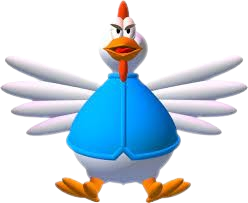
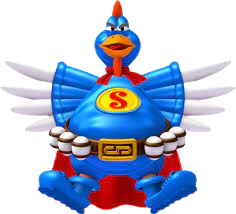
interface added

diff --git a/ChickenInvaders/src/main/java/Main.java b/ChickenInvaders/src/main/java/Main.java
@@ -16,16 +16,18 @@ public class Main extends PApplet {
     private SoundFile notificationSound;
     private boolean mouseWasOverstartButton = false;
     private boolean mouseWasOverExitButton = false;
+    private boolean gameOver = false;
     private int currentWave = 1;
     private int killedChickens = 0;
     private final int totalWaves = 3;
+    public static String[] chickenImages = {"chicken1.png", "chicken2.png", "chicken3.png"};
 
     public void setup() {
         pApplet = this;
         chicken = new Chicken(0, 0);
         Spaceship.spaceshipImage = loadImage("spaceship1.png");
         spaceship = new Spaceship();
-        Chicken.chickenImage = loadImage("chicken1.png");
+        updateChickenImage();
         chicken.createChickens();
 
         // Load custom font, background image, and sound
@@ -37,16 +39,19 @@ public class Main extends PApplet {
     public void draw() {
         if (startMenu) {
             drawStartMenu();
-        } else {
+        } else if (!gameOver) {
             background(128, 52, 235);
             drawWaveInfo();
-            chicken.display();
+            chicken.display(screenWidth);
             spaceship.drawSpaceship();
             for (Missile missile : missiles) {
                 missile.update();
                 missile.drawMissile();
             }
             checkCollisions();
+            checkGameOver();
+        } else {
+            drawGameOverMessage();
         }
     }
 
@@ -62,6 +67,20 @@ public class Main extends PApplet {
         float bottomMissile = missile.getY() + missile.getMissileHeight();
 
         return leftMissile < rightChicken && rightMissile > leftChicken && topMissile < bottomChicken && bottomMissile > topChicken;
+    }
+
+    private boolean collidesWithSpaceship(Chicken chicken, Spaceship spaceship) {
+        float leftChicken = chicken.getX();
+        float rightChicken = chicken.getX() + chicken.getWidth();
+        float topChicken = chicken.getY();
+        float bottomChicken = chicken.getY() + chicken.getHeight();
+
+        float leftSpaceship = spaceship.getxPos();
+        float rightSpaceship = spaceship.getxPos() + spaceship.getSpaceshipWidth();
+        float topSpaceship = spaceship.getyPos();
+        float bottomSpaceship = spaceship.getyPos() + spaceship.getSpaceshipHeight();
+
+        return leftSpaceship < rightChicken && rightSpaceship > leftChicken && topSpaceship < bottomChicken && bottomSpaceship > topChicken;
     }
 
     private void checkCollisions() {
@@ -89,8 +108,32 @@ public class Main extends PApplet {
         // Check if all chickens are killed and start the next wave if there are more waves
         if (killedChickens == chickensPerWave && currentWave < totalWaves) {
             currentWave++;
+            updateChickenImage(); // Update the chicken image
             chicken.createChickens();
             killedChickens = 0;
+        }
+    }
+
+    private void checkGameOver() {
+        for (Chicken currentChicken : Chicken.chickens) {
+            // Check if the chicken touched the spaceship
+            if (collidesWithSpaceship(currentChicken, spaceship)) {
+                gameOver = true;
+                break;
+            }
+
+            // Check if the chicken touched the bottom of the screen
+            if (currentChicken.getY() + currentChicken.getHeight() >= screenHeight) {
+                gameOver = true;
+                break;
+            }
+        }
+    }
+
+    public void updateChickenImage() {
+        int index = currentWave - 1;
+        if (index < chickenImages.length) {
+            Chicken.chickenImage = loadImage(chickenImages[index]);
         }
     }
 
@@ -149,6 +192,14 @@ public class Main extends PApplet {
         text("Exit Game", screenWidth / 2, screenHeight / 2 + 86);
     }
 
+    private void drawGameOverMessage() {
+        background(128, 52, 235);
+        textFont(pressStartFont, 24);
+        fill(255, 0, 0); // Change the message color to red
+        textAlign(CENTER);
+        text("Game Over!", screenWidth / 2, screenHeight / 2);
+    }
+
     public void mouseClicked() {
         if (startMenu) {
             // Check if the mouse was clicked inside the start button
@@ -165,8 +216,8 @@ public class Main extends PApplet {
 
     public void mousePressed() {
         if (!startMenu) {
-            float missileX = spaceship.getXPos();
-            float missileY = spaceship.getYPos() - spaceship.getSpaceshipHeight() / 2;
+            float missileX = spaceship.getxPos();
+            float missileY = spaceship.getyPos() - spaceship.getSpaceshipHeight() / 2;
             missiles.add(new Missile(missileX, missileY));
         }
     }

diff --git a/ChickenInvaders/src/main/java/Spaceship.java b/ChickenInvaders/src/main/java/Spaceship.java
@@ -1,11 +1,10 @@
 import java.util.*;
 import processing.core.PImage;
 
-public class Spaceship {
+public class Spaceship implements SpaceshipInterface{
     public static PImage spaceshipImage;
     private final int width = 400;
     private final int height = 700;
-    private int spaceshipColor;
     private float spaceshipWidth;
     private float spaceshipHeight;
     private float xPos;
@@ -13,7 +12,6 @@ public class Spaceship {
 
     public Spaceship() {
         // Creating spaceship
-        spaceshipColor = Main.pApplet.color(255, 0, 0);
         spaceshipWidth = 100;
         spaceshipHeight = 80;
         xPos = width / 2;
@@ -29,19 +27,51 @@ public class Spaceship {
         Main.pApplet.image(spaceshipImage, xPos, yPos, spaceshipWidth, spaceshipHeight);
     }
 
-    public float getXPos() {
-        return xPos;
+    public static PImage getSpaceshipImage() {
+        return spaceshipImage;
     }
 
-    public float getYPos() {
-        return yPos;
+    public static void setSpaceshipImage(PImage spaceshipImage) {
+        Spaceship.spaceshipImage = spaceshipImage;
+    }
+
+    public int getWidth() {
+        return width;
+    }
+
+    public int getHeight() {
+        return height;
     }
 
     public float getSpaceshipWidth() {
         return spaceshipWidth;
     }
 
+    public void setSpaceshipWidth(float spaceshipWidth) {
+        this.spaceshipWidth = spaceshipWidth;
+    }
+
     public float getSpaceshipHeight() {
         return spaceshipHeight;
+    }
+
+    public void setSpaceshipHeight(float spaceshipHeight) {
+        this.spaceshipHeight = spaceshipHeight;
+    }
+
+    public float getxPos() {
+        return xPos;
+    }
+
+    public void setxPos(float xPos) {
+        this.xPos = xPos;
+    }
+
+    public float getyPos() {
+        return yPos;
+    }
+
+    public void setyPos(float yPos) {
+        this.yPos = yPos;
     }
 }

diff --git a/ChickenInvaders/src/main/java/Chicken.java b/ChickenInvaders/src/main/java/Chicken.java
@@ -1,12 +1,12 @@
 import java.util.*;
 import processing.core.PImage;
 
-public class Chicken {
+public class Chicken implements ChickenInterface {
 
     public static ArrayList<Chicken> chickens = new ArrayList<>();
     public static PImage chickenImage;
-    private final int width = 50;
-    private final int height = 40;
+    private final int width =60;
+    private final int height = 48;
     private float x;
     private float y;
     private float speedX;
@@ -34,23 +34,25 @@ public class Chicken {
         }
     }
 
-    public void update() {
+    public void update(int screenWidth) {
         x += speedX;
 
         // Change direction if the chicken hits the screen edges
-        if (x <= 0 || x + width >= Main.pApplet.width) {
+        if (x <= 0 || x + width >= screenWidth) {
             speedX = -speedX;
             y += height;
         }
     }
 
-    public void display() {
+    public void display(int screenWidth) {
         for (Chicken chicken : chickens) {
-            chicken.update();
+            chicken.update(screenWidth);
             // Draw the chicken image instead of a rectangle
             Main.pApplet.image(chickenImage, chicken.getX(), chicken.getY(), chicken.getWidth(), chicken.getHeight());
         }
     }
+
+    //*******************************************************************
 
     // Getters and setters
     public static ArrayList<Chicken> getChickens() {

diff --git a/ChickenInvaders/src/main/java/ChickenInterface.java b/ChickenInvaders/src/main/java/ChickenInterface.java
@@ -1,0 +1,9 @@
+import java.util.*;
+
+public interface ChickenInterface {
+    //chicken part
+     void createChickens();
+    void update(int screenWidth);
+    void display(int screenWidth);
+
+}

diff --git a/ChickenInvaders/src/main/java/Missile.java b/ChickenInvaders/src/main/java/Missile.java
@@ -1,6 +1,6 @@
 import java.util.*;
 
-public class Missile {
+public class Missile implements MissileInterface{
     private float x;
     private float y;
     private float speed;

diff --git a/ChickenInvaders/src/main/java/MissileInterface.java b/ChickenInvaders/src/main/java/MissileInterface.java
@@ -1,0 +1,7 @@
+import java.util.*;
+
+public interface MissileInterface {
+
+    void update();
+    void drawMissile();
+}

diff --git a/ChickenInvaders/src/main/java/SpaceshipInterface.java b/ChickenInvaders/src/main/java/SpaceshipInterface.java
@@ -1,0 +1,5 @@
+import java.util.*;
+
+public interface SpaceshipInterface {
+    void drawSpaceship();
+}

diff --git a/ChickenInvaders/src/main/java/Database.java b/ChickenInvaders/src/main/java/Database.java
@@ -1,0 +1,4 @@
+import java.sql.*;
+
+public class Database {
+}
